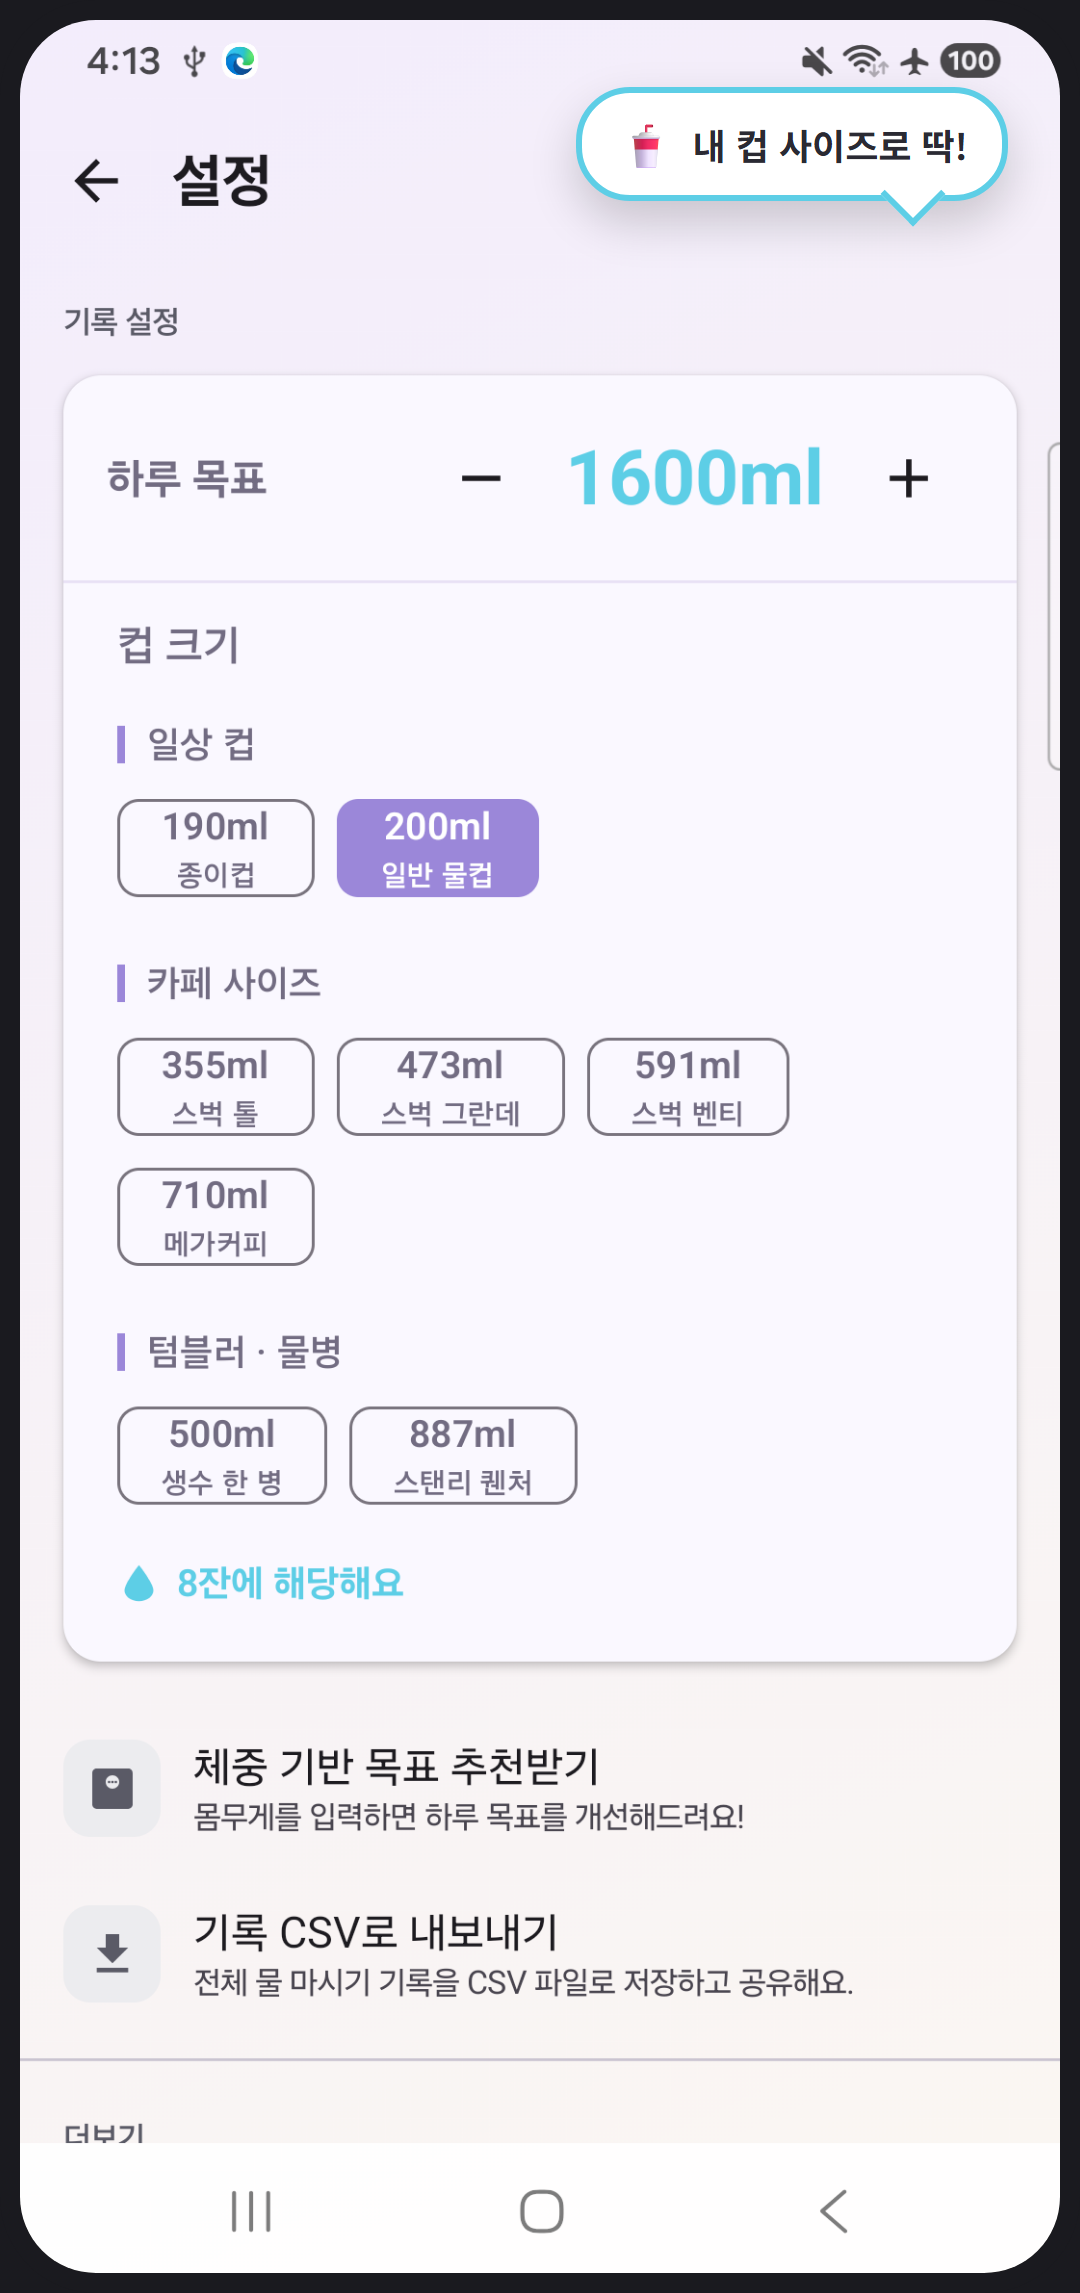
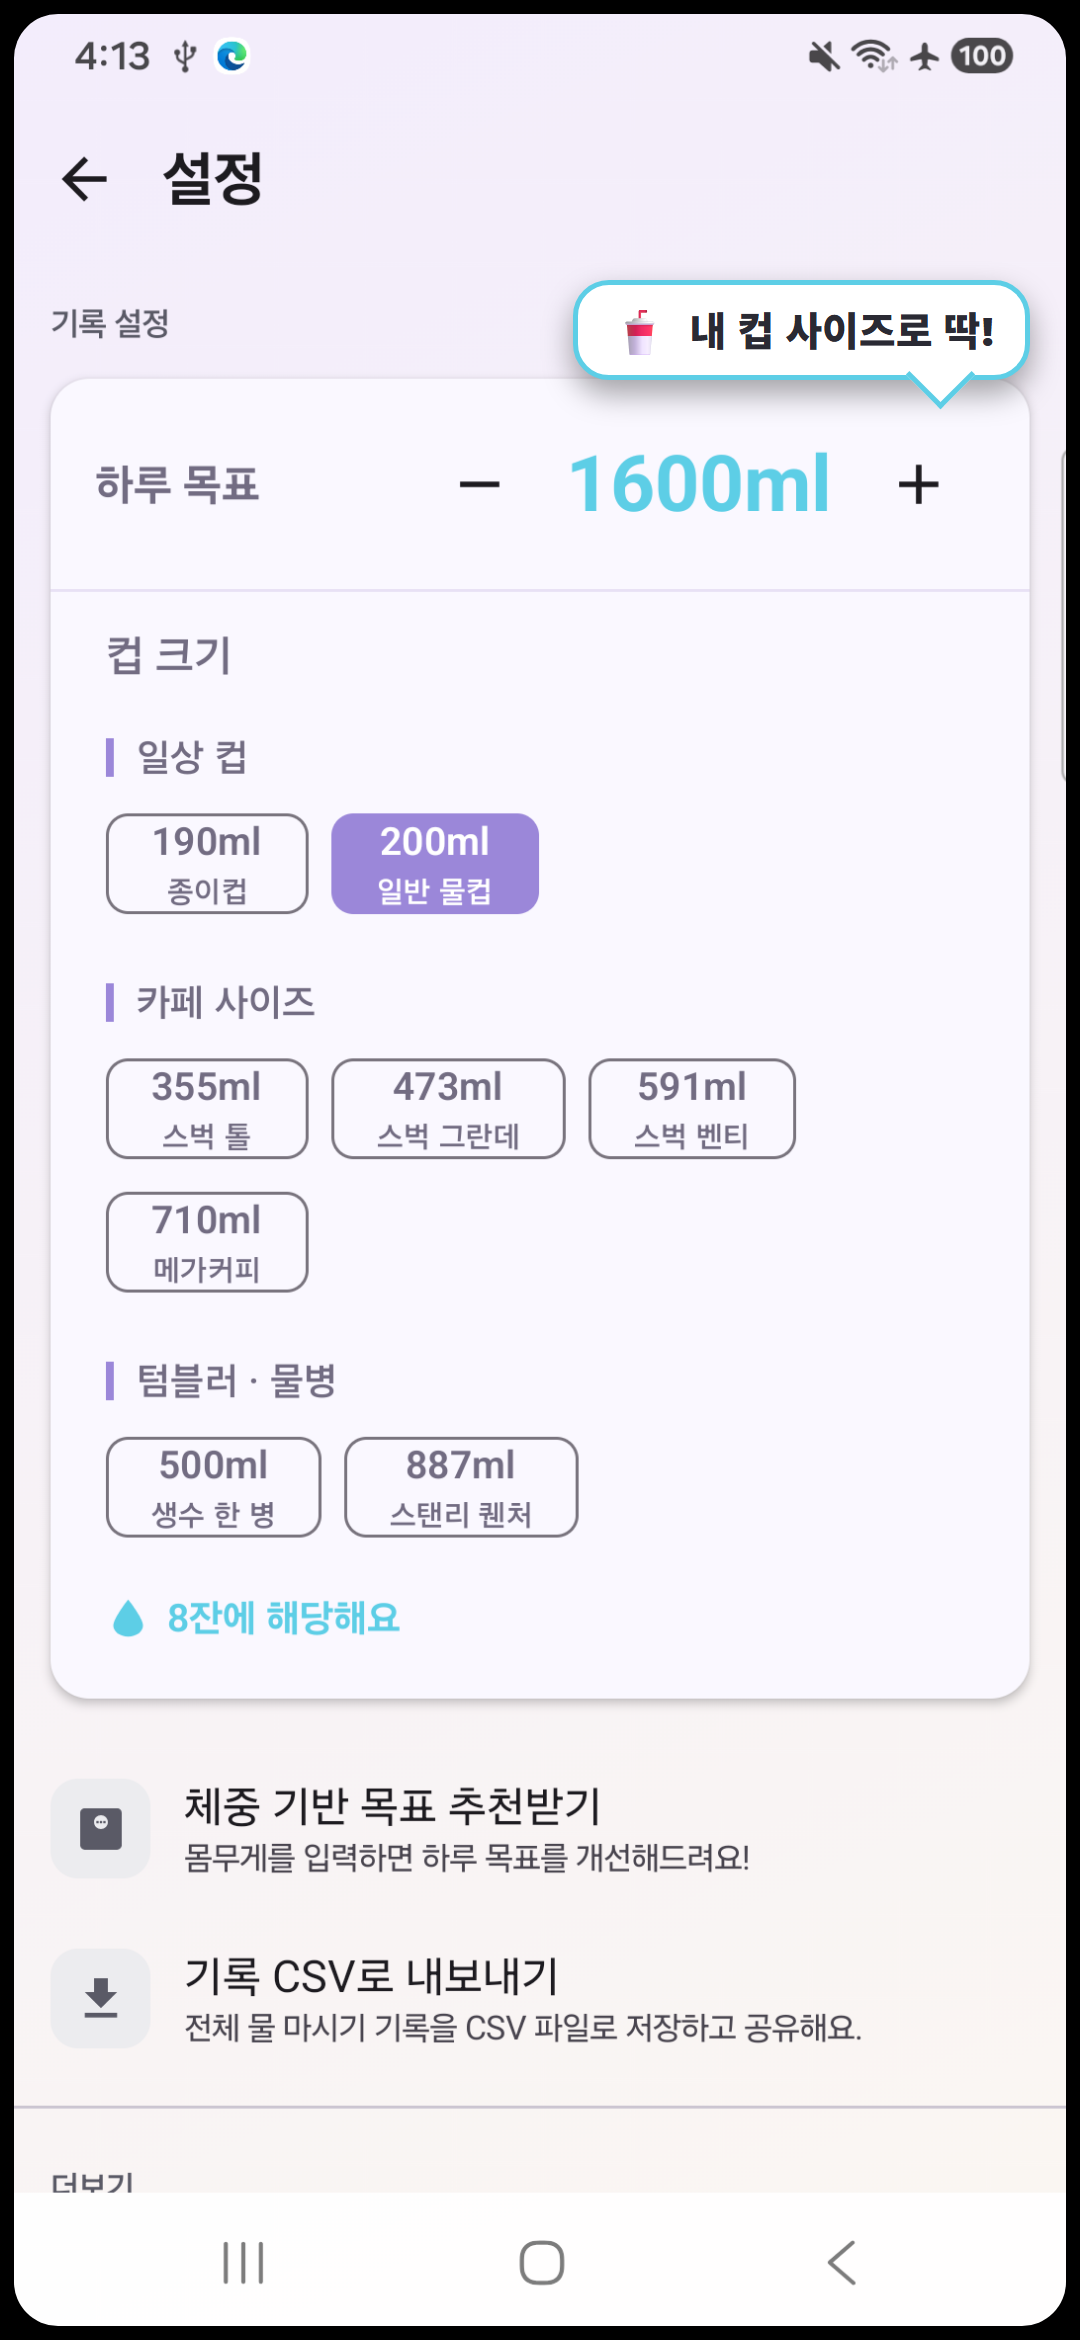
[chore] 영어 마케팅 스크린샷 신규 + 말풍선 위치 수정 + 피처 그래픽 한/영 교체
- screenshots_en_marketing/ 신규: 실기기 영어 UI 스크린샷 7장에 말풍선 합성(headless Chrome
  렌더링으로 전환해 이모지 완전 컬러화, 기존 GDI+ 합성의 흑백 이모지 한계 해결)
- 05_stats/06_settings 말풍선이 상태바·헤더를 가리던 문제 수정, 카드 상단 안쪽으로 위치 조정
  (한국어판 screenshots_marketing/도 동일하게 반영)
- feature_graphic_1024x500.png(한국어) "CHEERS!" 마스코트 신규 버전으로 교체
- feature_graphic_en_1024x500.png(영어) 신규 추가 — 언어별 개별 파일

diff --git a/docs/store/listing_en.md b/docs/store/listing_en.md
@@ -81,14 +81,21 @@ content — expected: Everyone).
 
 ## Screenshots
 
-Same asset set as `listing_ko.md` (`docs/store/screenshots/`). If English-language screenshot
-variants are needed for the store listing (not just widget preview thumbnails), that is a separate
-follow-up — see `docs/개발보고서.md` "남은 작업" for the widget-preview English asset work already
-done (`drawable-en-nodpi/`).
+**Not shared with the Korean listing — screenshots are per-language in Play Console.** Real
+English-UI captures (system language switched to English on the physical test device) live in
+`docs/store/screenshots_en/` (raw) and `docs/store/screenshots_en_marketing/` (with the speech
+bubble/headline overlay composited on top, matching the Korean marketing set's style). Upload the
+7 marketing files (01_home–07_dark_mode) to the en-US listing's "Phone screenshots" section.
 
 ## Icon
 
 `docs/store/play_store_icon_512.png` (same as Korean listing — icon is language-independent)
+
+## Feature graphic (1024×500)
+
+**Language-specific — not shared with the Korean listing.**
+`docs/store/feature_graphic_en_1024x500.png` ("WATERING / JUST ONE WIDGET TAP", same mascot
+artwork as the Korean version with translated copy).
 
 ## Feature graphic (1024×500)
 

diff --git a/docs/개발보고서.md b/docs/개발보고서.md
@@ -1,5 +1,13 @@
 # 워터링 Android 개발보고서
 
+> 마지막 업데이트: 2026-07-22, **마케팅 스크린샷 말풍선 위치 조정 + 피처 그래픽 한/영 신규 교체**.
+> 05_stats/06_settings 두 화면의 말풍선이 상태바·헤더를 가리던 것을 발견해 카드 상단 안쪽으로
+> 내림(한국어판·영어판 둘 다 반영, `docs/store/screenshots_marketing/`,
+> `screenshots_en_marketing/`). 말풍선 합성은 headless Chrome 렌더링으로 전환해 이모지가
+> 완전 컬러로 나오도록 개선(기존 PowerShell/GDI+ 합성은 이모지가 흑백 윤곽선으로만 나오던
+> 한계 발견 후 교체). 피처 그래픽도 owner가 새로 디자인한 "CHEERS!" 마스코트 버전으로 한국어판
+> 교체 + 영어판(`feature_graphic_en_1024x500.png`) 신규 추가 — 언어별 개별 파일임을 확인.
+>
 > 마지막 업데이트: 2026-07-22, **영어 스크린샷 실기기 신규 촬영 + 스크린샷 언어별 독립 관리
 > 사실 확인**. en-US 등록정보에 언어 추가 시 한국어 스크린샷이 그대로 복사돼 들어가 있던 것을
 > owner가 발견 — "스크린샷은 언어 공용이라 불필요"라고 이전에 적어뒀던 것이 오기였음을 en-US
